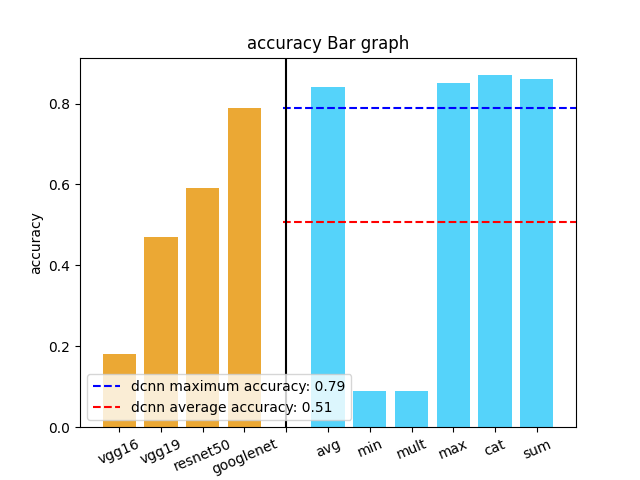
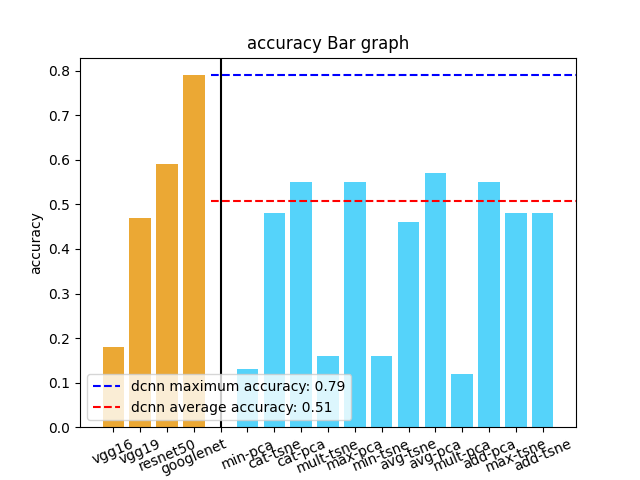
added svm and other metrics; and other minor changes

diff --git a/dcnn/fusion_svm.py b/dcnn/fusion_svm.py
@@ -1,14 +1,21 @@
 import os 
 import tensorflow as tf
 import numpy as np
-features_path = "./features/"
+features_path = "./features"
 
 from load_image import load_images
 
+from sklearn.manifold import TSNE
+from sklearn.decomposition import PCA
 
+from sklearn.svm import SVC
+from sklearn.metrics import classification_report
+from sklearn.pipeline import make_pipeline
+from sklearn.preprocessing import StandardScaler
+from sklearn.model_selection import train_test_split
 
 def save_features(images_dir="./spark22/train", out_dir= features_path):
-    num_images = 10
+    num_images = -1
     X, y = load_images("./spark22/train",num_images)
     print(y)
     
@@ -19,15 +26,16 @@ def save_features(images_dir="./spark22/train", out_dir= features_path):
         "models/vgg19_24-11-18T16-07.keras"]
     
 
-
+    model_features = {}
     for p in model_paths:
         model = tf.keras.models.load_model(p)
         model.trainable = False
         model = tf.keras.Sequential(model.layers[:-1]) 
         features = model.predict(X)
-
+        
         architecture_name = p.split("/")[1].split("_")[0] 
-        print(architecture_name)
+        print( "\t" + architecture_name)
+        model_features[architecture_name] = features 
         
         for  i in range(len(features)):
             feature = features[i]
@@ -36,6 +44,100 @@ def save_features(images_dir="./spark22/train", out_dir= features_path):
             with open(f'{path}/{i}.npy', 'wb') as f:
                 np.save(f, feature)
 
+    return model_features, y
+
+def load_features(root_dir=features_path):
+    features = {}
+    y = []
+    for model_dir in os.listdir(root_dir):
+               
+        if not os.path.isdir(f"{root_dir}/{model_dir}"):
+            continue
+        X = []
+        y = []
+
+        for class_dir in os.listdir(f"{root_dir}/{model_dir}"):
+            print(f"{root_dir}/{model_dir}/{class_dir}")
+
+            if not os.path.isdir(f"{root_dir}/{model_dir}/{class_dir}"):
+                continue
+            
+
+            for file in os.listdir(f"{root_dir}/{model_dir}/{class_dir}"):
+                if not file.endswith(".npy"):
+                    continue
+                x = np.load(f"{root_dir}/{model_dir}/{class_dir}/{file}")
+                X.append(x)
+                y.append(class_dir)
+
+        if len(X) != 0:
+            features[model_dir]= np.array(X)
+    
+    return features, y
+
+def fuse(features, method="cat", dim_red="pca"):
+    features_array = [features[model] for model in features.keys()]
+
+    methods = {
+        "cat" : np.hstack,
+        "mult": np.multiply.reduce,
+        "add": np.add.reduce,
+        "min":np.minimum.reduce,
+        "max":np.maximum.reduce,
+        "avg":np.frompyfunc(lambda x, y,: (x+y)/2, 2, 1).reduce
+            }
+    
+    dim_reducers ={
+        "pca" : PCA(n_components=16),
+        "tsne": TSNE(n_components=3)
+            }
+    
+    meth = methods.get(method)
+    reducer = dim_reducers.get(dim_red)
+
+
+    if meth is None:
+        raise ValueError(f"method: {method} is not defined")
+    
+    
+
+
+    x = meth(features_array) 
+    if reducer is not None:  
+        x = reducer.fit_transform(x)
+    print(x.shape) 
+    return x 
         
 if len(os.listdir(features_path)) == 0:
-    save_features()
+    print("saveing the models features.")
+    features, y = save_features()
+else:
+    print("loading the saved features.")
+    features, y = load_features()
+
+methods = ["avg"]
+
+reductions =["pca", "tsne"]
+
+for m in methods:
+    for r in reductions:
+        x = fuse(features, method=m, dim_red=r)
+
+
+        x_train, x_test, y_train, y_test = train_test_split(x, y, test_size=0.2, random_state=42)
+
+        kernal = "rbf"
+        svm = make_pipeline(StandardScaler(), SVC(gamma='auto', kernel=kernal,verbose=2))
+
+        svm.fit(x_train, y_train)
+
+        y_pred = svm.predict(x_test)
+        metrics = classification_report(y_true=y_test,y_pred=y_pred)
+        
+        with open(f"metrics/{m}-{r}_fusion_svm_metric.txt", "w") as f:
+            f.write(str(metrics))
+
+
+
+
+

diff --git a/dcnn/metrics_agg.py b/dcnn/metrics_agg.py
@@ -43,9 +43,10 @@ path= "./metrics"
 files = os.listdir(path)
 metrics = {}
 
+
 for file_name in files:
-    if file_name.endswith(".txt") and file_name not in ["resnet50_24-10-03T00-07_metrics.txt"]:
-        
+    if file_name.endswith(".txt") and ("svm" in file_name or "fusion" not in file_name):
+        print(file_name)
         with open(f"{path}/{file_name}","r") as f: 
             met ={"precision": 0,
                   "recall"   : 0,
@@ -59,7 +60,7 @@ for file_name in files:
                 met["precision"]+= float(m[0])/11                
                 met["recall"]   += float(m[1])/11              
                 met["f1-score"] += float(m[2])/11
-            
+                    
 
 
             f.readline()     
@@ -80,15 +81,16 @@ for k in keys:
     else:
         base_models[k.split("_")[0]] = metrics[k]
 
+print(fusions)
+print()
+print(base_models)
+
+
 
 create_bar(base_models, fusions,  "accuracy")
 create_bar(base_models, fusions,  "f1-score")
 create_bar(base_models, fusions,  "precision")
 create_bar(base_models, fusions,  "recall")
-
-print(fusions)
-print()
-print(base_models)
 
 
 
